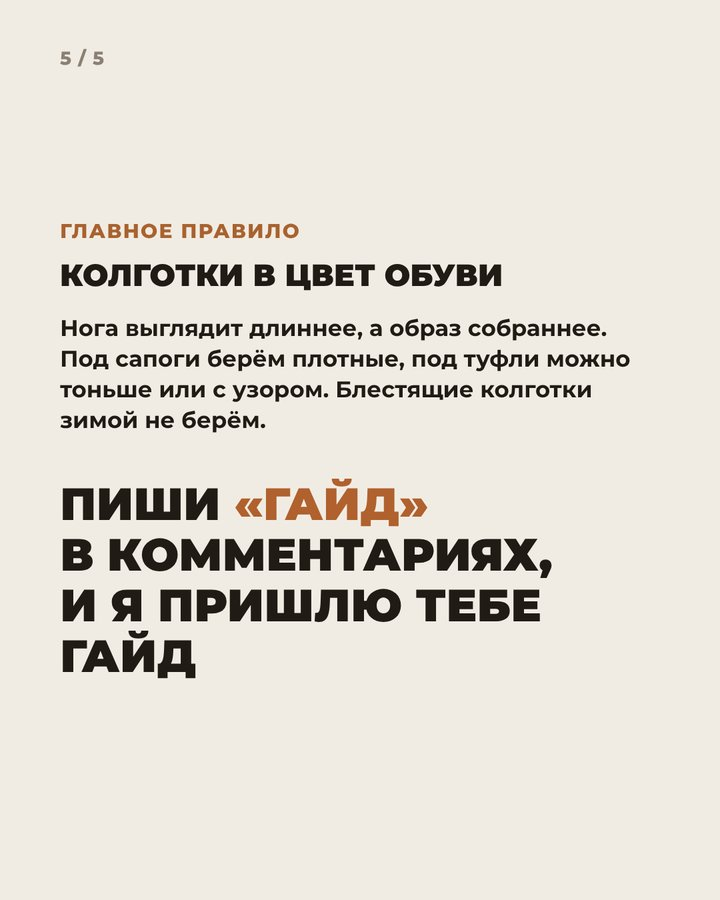
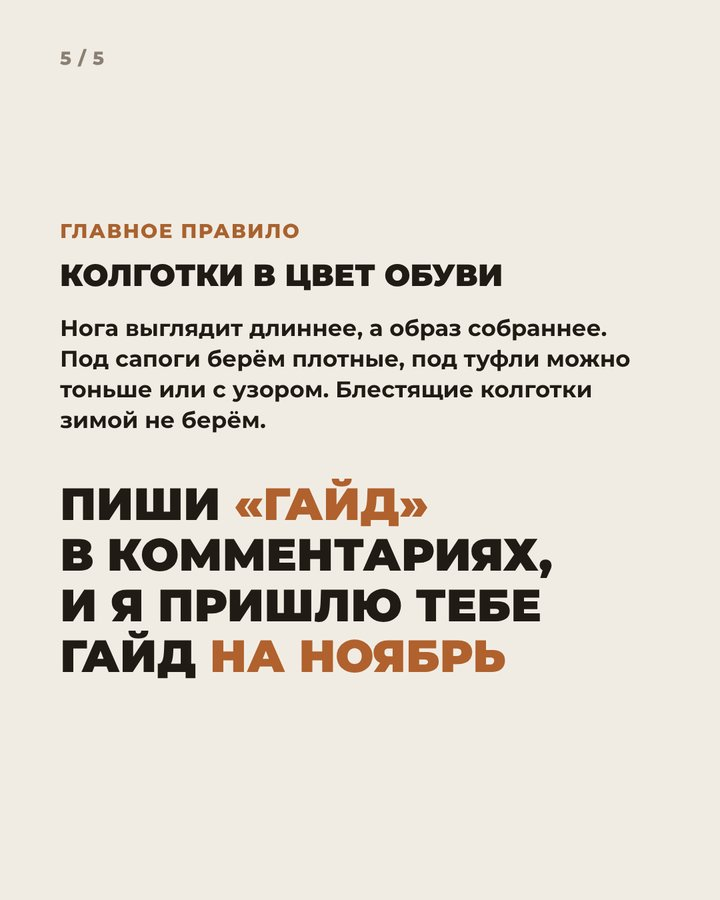
Carousels 9.11, 13.11: guide for November
Claude-Session: https://claude.ai/code/session_01WfDMDWpCzhvXCNpiNoLDnf

Changed region(s): [[0.275, 0.6844, 0.7028, 0.7467]]

diff --git a/karusel-krasnyi-sviter/index.html b/karusel-krasnyi-sviter/index.html
@@ -103,7 +103,7 @@ header{display:grid;gap:10px}
       <p>Красный зимой выглядит дорого, если он единственный яркий цвет в образе. Всё остальное держим спокойным: белый, серый, чёрный.</p>
       <p>Образ 1: белые джинсы, кожаный ремень, лоферы<br>Образ 2: белый лонгслив, широкие серые брюки, шопер<br>Образ 3: серая юбка миди, сапоги с острым носом</p>
       <p>Где купить:<br>Свитер — LIME, 4 999 ₽<br>Белые джинсы — Love Republic, 3 587 ₽<br>Ремень — Sela, 3 599 ₽<br>Лаковые лоферы — IDOL, 15 990 ₽<br>Белый лонгслив — LIME, 1 799 ₽<br>Серые брюки — Love Republic, 4 999 ₽<br>Шопер — Befree, 4 999 ₽<br>Серая юбка — LIME, 5 999 ₽<br>Сапоги — Befree, 5 999 ₽</p>
-      <p>Пиши «ГАЙД» в комментариях, и я пришлю тебе гайд 🤍</p>
+      <p>Пиши «ГАЙД» в комментариях, и я пришлю тебе гайд на ноябрь 🤍</p>
       <p>Фото образов: @stassiaone и подборка Ирины. Фото вещей: сайты магазинов.</p>
       <p>#красныйсвитер #образнакаждыйдень #стильзимой #капсула #стилист</p>
     </div>

diff --git a/karusel-kolgotki-zimoi/index.html b/karusel-kolgotki-zimoi/index.html
@@ -104,7 +104,7 @@ header{display:grid;gap:10px}
       <p>Пара 1, серые:<br>Колготки 70 den — Befree, 999 ₽<br>Ботильоны из замши — Love Republic, 12 479 ₽</p>
       <p>Пара 2, чёрные:<br>Тёплые колготки в рубчик — Befree, 1 299 ₽<br>Ботильоны с пряжкой — Love Republic, 7 799 ₽</p>
       <p>Пара 3, на праздник:<br>Колготки в горошек — Sela, 1 599 ₽<br>Слингбэки с бантом — Sela, 3 999 ₽</p>
-      <p>Пиши «ГАЙД» в комментариях, и я пришлю тебе гайд 🤍</p>
+      <p>Пиши «ГАЙД» в комментариях, и я пришлю тебе гайд на ноябрь 🤍</p>
       <p>Фото: сайты магазинов. Цены на 9.11.</p>
       <p>#колготки #стильзимой #образнакаждыйдень #капсула #стилист</p>
     </div>
